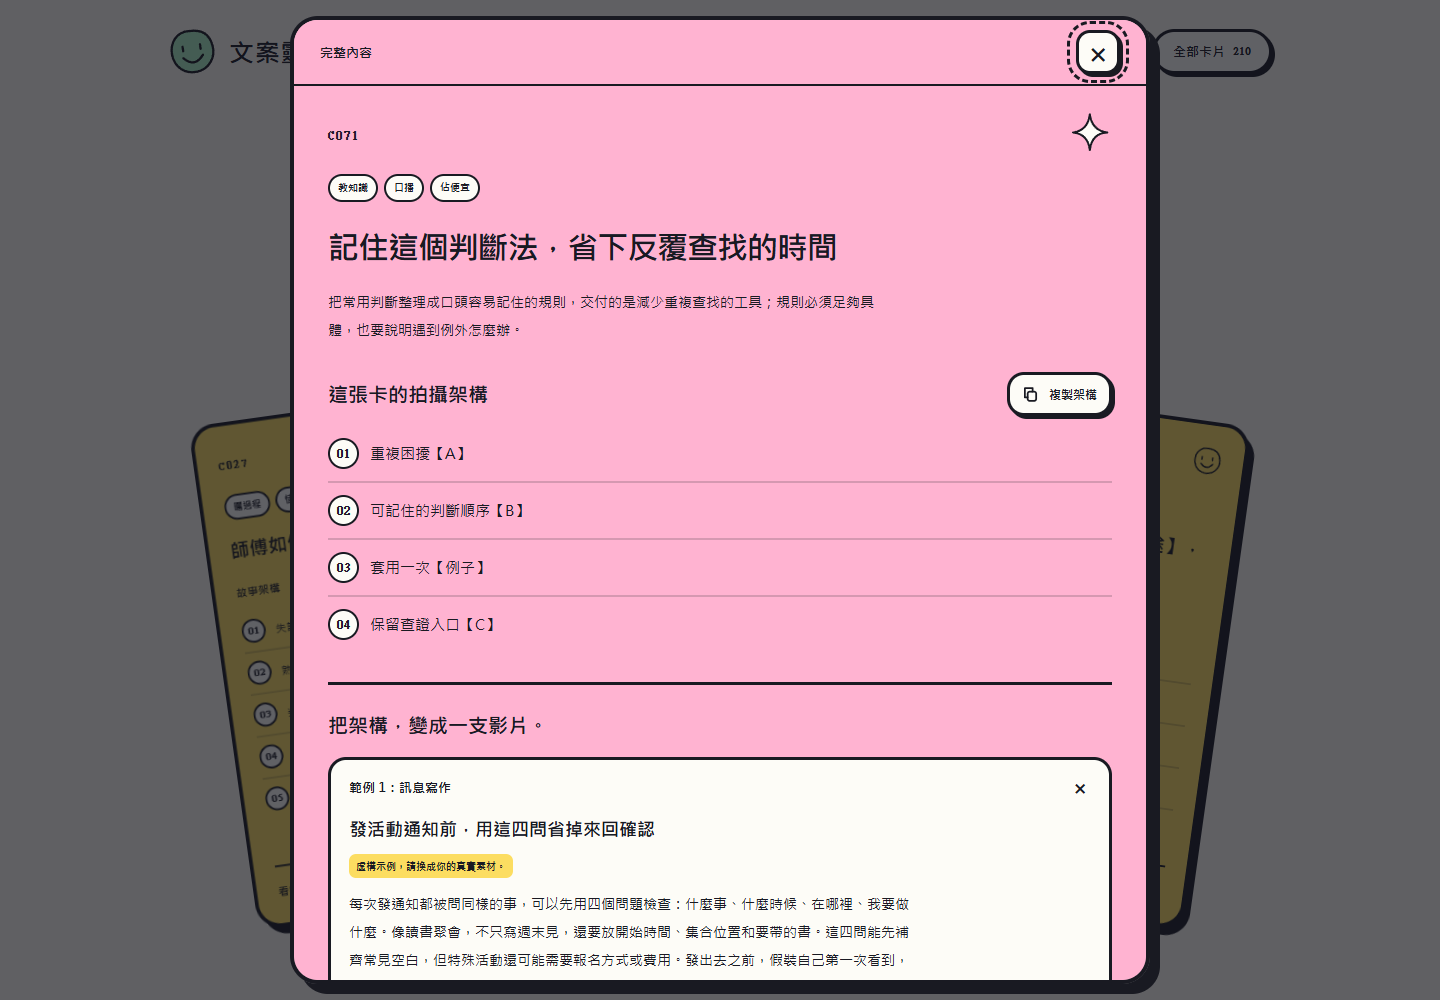
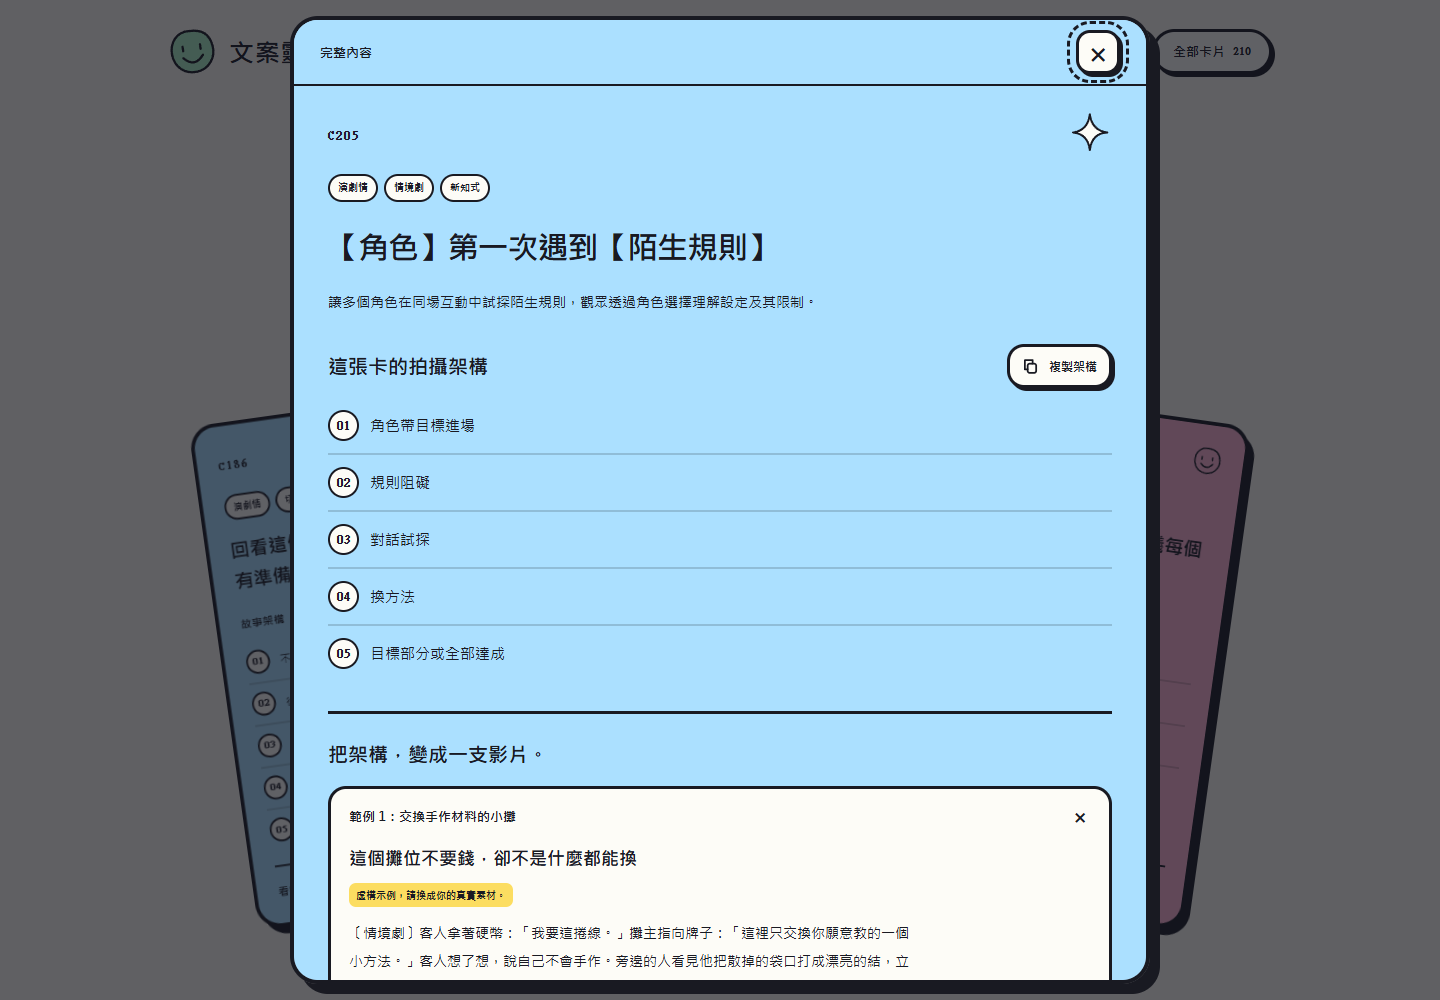
Hide dialog scrollbar chrome and speed up sequential card flips

diff --git a/styles.css b/styles.css
@@ -65,11 +65,11 @@ main { max-width: 1160px; margin: 0 auto; padding: 22px 28px 35px; }
 .draw-button[aria-busy=true] { background: var(--pink); }
 .draw-results { position: relative; width: 100%; max-width: none; margin: 0 auto; padding: 0; perspective: 1400px; isolation: isolate; }
 .draw-results::before { content: ""; position: absolute; z-index: -1; left: 50%; top: 34%; width: 87%; height: 260px; transform: translateX(-50%); border: 3px dashed oklch(22% .015 280 / .16); border-radius: 50%; background: oklch(94% .035 155); pointer-events: none; }
-#draw-results .inspiration-card { --card-fill: var(--pink); position: absolute; top: var(--hand-top,90px); left: 50%; width: var(--hand-card-width,330px); height: auto; min-height: 460px; min-width: 0; padding: 0; border: 0; border-radius: 27px; background: transparent; box-shadow: none; color: var(--ink); text-decoration: none; transform: translateX(-50%) translate(var(--fan-x,0px),var(--fan-y,0px)) rotate(var(--fan-angle,0deg)) scale(var(--fan-scale,1)); transform-origin: 50% 100%; transform-style: preserve-3d; transition: transform .42s var(--ease); will-change: transform; }
+#draw-results .inspiration-card { --card-fill: var(--pink); position: absolute; top: var(--hand-top,90px); left: 50%; width: var(--hand-card-width,330px); height: auto; min-height: 460px; min-width: 0; padding: 0; border: 0; border-radius: 27px; background: transparent; box-shadow: none; color: var(--ink); text-decoration: none; transform: translateX(-50%) translate(var(--fan-x,0px),var(--fan-y,0px)) rotate(var(--fan-angle,0deg)) scale(var(--fan-scale,1)); transform-origin: 50% 100%; transform-style: preserve-3d; transition: transform .24s var(--ease); will-change: transform; }
 #draw-results .card-yellow { --card-fill: var(--yellow); }
 #draw-results .card-blue { --card-fill: var(--blue); }
 #draw-results .card-mint { --card-fill: var(--mint); }
-.card-flipper { position: relative; width: 100%; height: 100%; transform-style: preserve-3d; transform: rotateY(0deg); transition: transform .46s cubic-bezier(.45,0,.2,1); }
+.card-flipper { position: relative; width: 100%; height: 100%; transform-style: preserve-3d; transform: rotateY(0deg); transition: transform .22s cubic-bezier(.45,0,.2,1); }
 .is-covered .card-flipper { transform: rotateY(180deg); }
 .card-face { width: 100%; min-height: 460px; border: 4px solid var(--ink); border-radius: inherit; box-shadow: 7px 8px 0 var(--ink); backface-visibility: hidden; -webkit-backface-visibility: hidden; }
 .card-front { position: relative; height: 100%; padding: 23px 23px 19px; border-radius: 27px; background: var(--card-fill); transform: rotateY(0deg); }
@@ -88,7 +88,7 @@ main { max-width: 1160px; margin: 0 auto; padding: 22px 28px 35px; }
 .card-reverse { position: absolute; inset: 0; height: 100%; display: flex; align-items: center; justify-content: center; padding: 35px; border-radius: 27px; background: var(--pink); transform: rotateY(180deg); pointer-events: none; }
 .card-reverse::before { content: ""; position: absolute; inset: 13px; border: 2px dashed var(--ink); border-radius: 16px; }
 .is-gathering .inspiration-card { transform: translateX(-50%) translateY(28px) rotate(0deg) scale(.78) !important; }
-.is-gathering .card-flipper { transition-duration: .28s; }
+.is-gathering .card-flipper { transition-duration: .16s; }
 .is-dealing .inspiration-card { pointer-events: none; }
 .skip-flip .card-flipper { transition: none !important; }
 .hand-picker { display: none; }
@@ -183,6 +183,8 @@ body[data-view="draw"] .site-footer { display: none; }
 .noscript { margin: 25px; padding: 20px; border: var(--line); border-radius: 20px; background: var(--yellow); }
 .card-dialog { width: min(860px,calc(100vw - 32px)); max-width: none; max-height: calc(100svh - 32px); margin: auto; padding: 0; border: 4px solid var(--ink); border-radius: 28px; color: var(--ink); box-shadow: 10px 10px 0 var(--ink); overflow-y: auto; overscroll-behavior: contain; }
 .card-dialog::backdrop { background: oklch(18% .02 280 / .66); }
+.card-dialog { scrollbar-width: none; -ms-overflow-style: none; }
+.card-dialog::-webkit-scrollbar { display: none; width: 0; height: 0; }
 .dialog-toolbar { position: sticky; top: 0; z-index: 3; display: flex; align-items: center; justify-content: space-between; min-height: 66px; padding: 10px 26px; border-bottom: 2px solid var(--ink); background: inherit; font-size: 13px; font-weight: 850; }
 .dialog-close { display: grid; place-items: center; width: 44px; height: 44px; padding: 0; border: var(--line); border-radius: 14px; background: var(--paper); box-shadow: 3px 3px 0 var(--ink); font-size: 29px; line-height: 1; }
 .dialog-close:active { transform: translate(2px,2px); box-shadow: 1px 1px 0 var(--ink); }

diff --git a/app.js b/app.js
@@ -215,15 +215,15 @@
     drawTimers.push(setTimeout(()=>{
       renderDraw(next,true);
       results.classList.remove('is-gathering');results.dataset.phase='spread';
-    },300));
+    },180));
     next.forEach((card,index)=>{
       drawTimers.push(setTimeout(()=>{
         results.dataset.phase='reveal';results.dataset.revealIndex=index+1;
         setCovered(results.children[index],false);positionHand();
         $('#draw-button-label').textContent='翻牌 '+(index+1)+' / '+next.length;
-      },880+index*480));
+      },540+index*240));
     });
-    drawTimers.push(setTimeout(complete,880+(next.length-1)*480+500));
+    drawTimers.push(setTimeout(complete,540+(next.length-1)*240+260));
   }
   $('#draw-button').addEventListener('click',draw);
   $$('.draw-count input').forEach(input=>input.addEventListener('change',()=>{

diff --git a/index.html b/index.html
@@ -6,10 +6,10 @@
   <meta name="theme-color" content="#faf8ee">
   <meta name="description" content="一次抽 1、3 或 5 張文案靈感卡，從 210 種短影音架構中找到下一個點子。">
   <title>文案靈感隨機卡片</title>
-  <link rel="icon" href="assets/favicon.svg?v=dialog-1" type="image/svg+xml">
-  <link rel="stylesheet" href="styles.css?v=dialog-1">
+  <link rel="icon" href="assets/favicon.svg?v=dialog-fast-1" type="image/svg+xml">
+  <link rel="stylesheet" href="styles.css?v=dialog-fast-1">
   <script src="data/catalog.js" defer></script>
-  <script src="app.js?v=dialog-1" defer></script>
+  <script src="app.js?v=dialog-fast-1" defer></script>
 </head>
 <body>
 <a class="skip-link" href="#main">跳到主要內容</a>

diff --git a/DESIGN.md b/DESIGN.md
@@ -10,13 +10,13 @@
 
 卡片先以背面展開，再逐張旋轉到正面。每張卡有實際 front、reverse 和 flipper 三維結構，兩面包含各自的邊框和陰影，背面朝外時正面以 backface-visibility 隱藏，沒有用淡入取代翻面。
 
-時序：先合上及聚攏 300ms；背面展開並停留到 880ms；之後每隔 480ms 翻一張，單張轉動 460ms。五張約 3.3 秒完成。按鈕顯示目前翻牌張數，期間鎖定抽卡與選牌。換頁或隱藏分頁會取消各階段，恢復上一手完整結果。
+時序：先合上及聚攏 180ms；背面展開並停留到 540ms；之後每隔 240ms 翻一張，單張轉動 220ms。一張約 0.8 秒、五張約 1.76 秒完成。按鈕顯示目前翻牌張數，期間鎖定抽卡與選牌。換頁或隱藏分頁會取消各階段，恢復上一手完整結果。
 
 完成後，卡片扇形排列。滑鼠或焦點所在的卡抬起、回正、放大並移到最前方。手機用編號切換前景卡。舞台及牌面依文字自然高度計算，卡面沒有內部捲動容器。
 
 ## 完整內容彈窗
 
-一般點卡不改 hash，也不切換底頁。原生 dialog 在目前手牌或列表上方開啟，延續所選卡片的實色。長內容僅使用彈窗本身的一個垂直閱讀區域，上方關閉按鈕保持可見。
+一般點卡不改 hash，也不切換底頁。原生 dialog 在目前手牌或列表上方開啟，延續所選卡片的實色。長內容僅使用彈窗本身的一個垂直閱讀區域，上方關閉按鈕保持可見。彈窗不顯示捲動條外觀，保留滑鼠滾輪、觸控與鍵盤閱讀完整內容。
 
 關閉按鈕、Esc 或點遮罩皆能關閉。背景鎖定捲動，補足原捲動條空間以避免底頁偏移；關閉後還原原手牌節點、選牌、列表條件、捲動位置及焦點。Tab／Shift+Tab 留在彈窗內。
 

diff --git a/docs/DESIGN_REVIEW.md b/docs/DESIGN_REVIEW.md
@@ -7,3 +7,5 @@
 卡片重做為 front、reverse、flipper 結構，邊框及陰影跟著表面一起旋轉。先完整展開五張背面，再逐張翻到正面；實測中途三維旋轉矩陣，沒有用透明度變換冒充翻面。
 
 已檢視桌機與手機彈窗、背面展牌、第一張翻牌中，以及彈窗底部。詳細操作與位置還原結果見 [ACCEPTANCE.md](ACCEPTANCE.md)及[TEST_RESULTS.json](TEST_RESULTS.json)。
+
+彈窗隱藏捲動條外觀，仍使用原有捲動區承接完整內容。實際滾輪操作可向下閱讀；五張依序翻面的完成時間縮短為約 1.76 秒。

diff --git a/docs/ACCEPTANCE.md b/docs/ACCEPTANCE.md
@@ -8,6 +8,7 @@ tests/smoke.cjs 以 Chromium 執行 13 組驗收，全部通過；無 JavaScript
 
 | 項目 | 實測 |
 |---|---|
+| 速度與閱讀 | 五張約 1.76 秒完成；彈窗捲動條為隱藏，實際滑鼠滾輪仍能閱讀下方內容 |
 | 真正翻面 | 五張背面先展開；逐張檢查揭示張數；翻到中途時具有三維旋轉角度，結束後皆回到正面 |
 | 1／3／5 張 | 數量、唯一性、保留卡片節點與固定按鈕正常；減少動態立即顯示 |
 | 滑過與鍵盤 | 滑鼠放大、前景層級及左右鍵選牌正常 |

diff --git a/PRODUCT.md b/PRODUCT.md
@@ -33,6 +33,7 @@ product
 - 同批及前後批卡片不重複。
 - 正反面是真正的雙面旋轉，先展示整手背面，之後逐張翻開。
 - 抽卡卡面完整呈現文字，不設內部捲動區。
+- 彈窗隱藏捲動條外觀，保留滾輪、觸控與鍵盤閱讀。
 - 點卡彈窗不改網址、不切換底頁、不重建原手牌或列表。
 - 維護資訊、私人資料與部署教學不放公開介面。
 
